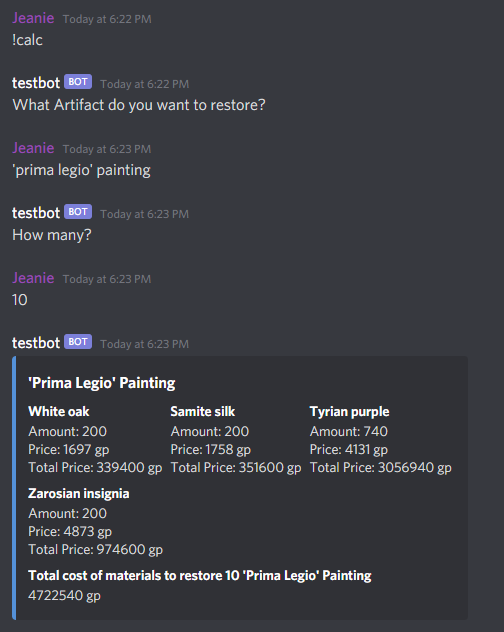
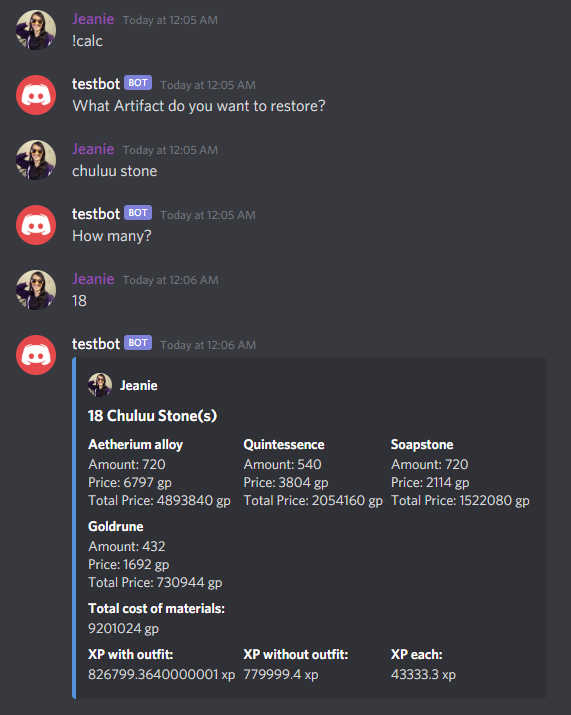
Add/show experience gain for artifact

diff --git a/DiscordBotVersion/ArchCalcDiscordBot.py b/DiscordBotVersion/ArchCalcDiscordBot.py
@@ -69,6 +69,11 @@ async def calc(ctx):
                     temp = b.get_text()
                     t.append(temp)
 
+        experience = My_table.tbody.find_all('tr')[1]
+        exp = experience.find('td').get_text()
+        exp1 = exp.split()
+        del(exp1[1])
+
         b = [x for x in t if x]
 
         # Split list into individual lists
@@ -87,9 +92,11 @@ async def calc(ctx):
             index += 1
 
         index2 = 0
-        while index2 < len(total_price):
-            total_price[index2] = total_price[index2].replace(',', '')
+        while index2 < len(exp1):
+            exp1[index2] = exp1[index2].replace(',', '')
             index2 += 1
+
+        e = float(exp1[0])
 
         # Create class to store material data
         class Materials:
@@ -123,6 +130,18 @@ async def calc(ctx):
             def TotalMatPrice(self, total_mat_price):
                 self._total_mat_price = total_mat_price
 
+        class ArtifactExp:
+            def __init__(self, experience):
+                self._experience = experience
+
+            @property
+            def Experience(self):
+                return self._experience
+
+            @Experience.setter
+            def Experience(self, experience):
+                self._experience = experience
+
         # Store each Material class object into a list
         list2 = []
 
@@ -147,25 +166,51 @@ async def calc(ctx):
                 list2[i].MatAmount *= amount
                 list2[i].TotalMatPrice *= amount 
 
+        art = ArtifactExp(e)
+
+        # Total experience without full archaeology outfit
+        def totalExperience(amount):
+            exp = art.Experience * amount
+            return exp
+
+        # Total experience with full archaeology outfit
+        def ExpWithOutfit(amount):
+            # Full archaeology outfit gives +6% bonus experience
+            outfit = 0.06
+            exp = amount * (art.Experience + (art.Experience * outfit))
+            return exp
+
         sum = totalCost(amt)
         calcMats(amt)
         capitalize = artifact.title()
     
     # Embed message to make results look pretty
-    embed = discord.Embed(title=capitalize,
+    embed = discord.Embed(title='{} {}(s)'.format(amt, capitalize),
                           color=discord.Color.blue()) 
     
     for item in list2:
         embed.add_field(name=item.MatName, 
-                        value='''Amount: {}\n
-                                Price: {} gp\n
+                        value='''Amount: {}
+                                Price: {} gp
                                 Total Price: {} gp'''.format(item.MatAmount,
                                                             item.MatPrice, 
                                                             item.TotalMatPrice))
     
-    embed.add_field(name="Total cost of materials to restore {} {}(s)".format(amt, capitalize), 
+    embed.add_field(name="Total cost of materials:".format(amt, capitalize), 
                     value='{} gp'.format(sum), 
                     inline=False)
+    
+    embed.add_field(name="XP with outfit:", 
+                value='{} xp'.format(ExpWithOutfit(amt)), 
+                inline=True)
+    
+    embed.add_field(name="XP without outfit:", 
+                value='{} xp'.format(totalExperience(amt)), 
+                inline=True)
+    
+    embed.add_field(name="XP each:", 
+                value='{} xp'.format(e), 
+                inline=True)
     
     # User name
     embed.set_author(name=ctx.author.name, icon_url=ctx.author.avatar_url)
